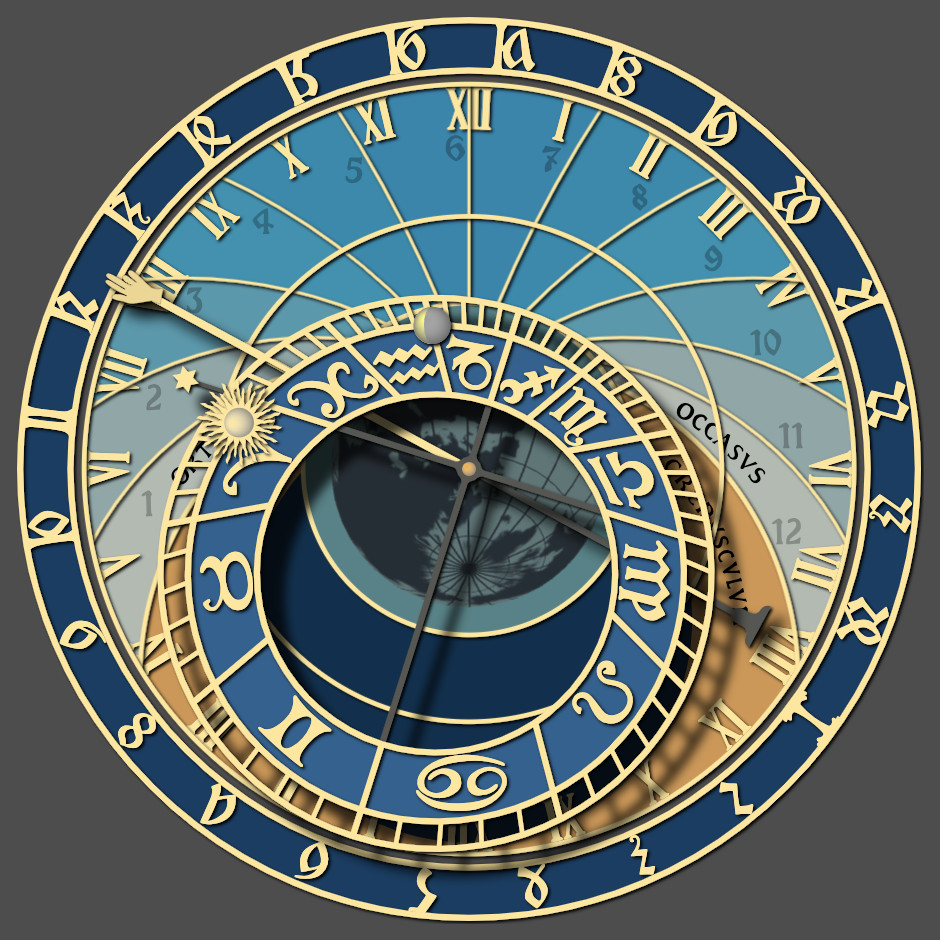
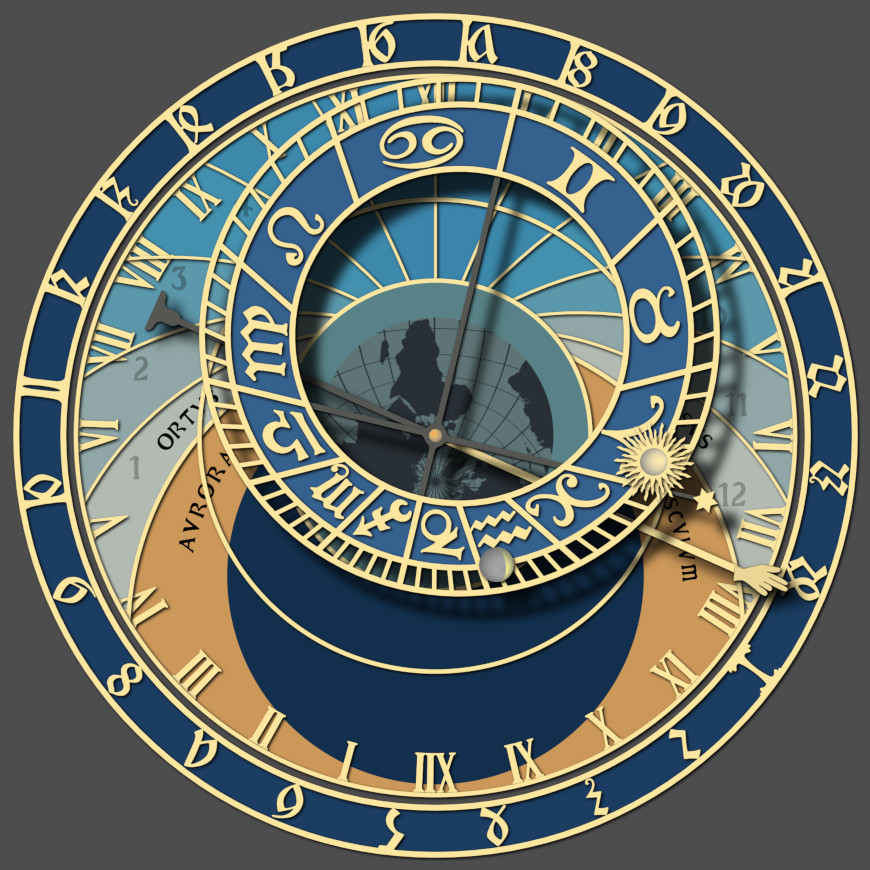
Convert central map to use stereographic projection.

diff --git a/src/assets/about.html b/src/assets/about.html
@@ -27,7 +27,7 @@
   }
 
   #clock {
-    left: calc(50% - 235px);
+    left: calc(50% - 217px);
     position: relative;
   }
 
@@ -49,28 +49,22 @@
 <body>
   <div class="page">
     <h1>Prague Astronomical Clock Simulator</h1>
-    <img id="clock" src="clock.jpg" width="470" height="470" alt="clock face">
+    <img id="clock" src="clock.jpg" width="435" height="435" alt="clock face">
     <h2>Graphic design</h2>
     <p>The original SVG clock graphics and font used here were originally developed by Jan Tošovský, as found on
       this <a href="https://drifted.in/horologium-app/" target="_blank">web site</a>.</p>
     <p>The color scheme here has been altered, the graphics have been modified to cover a full range of latitudes,
       and the graphics can now be updated quickly within a web browser, rather than relying on server-based updates.
-      A central map, similar to the one featured in the original clock, has been added.</p>
+      A central world map, similar to the one featured in the original clock, has been added.</p>
 
     <h2>Differences between the simulator and the original Prague clock</h2>
     <ul>
       <li>The positioning of the simulator’s clock hands, hour dial, sun, moon, and ecliptic wheel are done using
         modern astronomical calculations, rather than simulating the internal gearing of the physical clock.</li>
-      <li>The original clock shows a map of the world in the center of the clock face, with the south pole toward the
-        top, centered on Prague. The map projection (as best as I can tell) is a
+      <li>The original clock shows a map of the world in the center of the clock face, done using a
         <a href="https://en.wikipedia.org/wiki/Stereographic_projection" target="_blank">stereographic projection</a>,
-        which corresponds to the type of projection used in the astrolabe-like design of the entire clock face.<br><br>
-
-        Since this simulation can be set to any location on Earth, not only Prague, the globe image needs to turn and
-        rotate rather than being an unchanging painting. The easiest, fastest-rendering way to do this was to use a
-        camera-like perspective, rendering the globe as the Earth would be seen at a distance from space. The result
-        is a map which is somewhat different than the original map, even when the simulator’s location is set to
-        Prague.</li>
+        with the south pole toward the top, centered on Prague. Since this simulation can be set to any location on
+        Earth, not only Prague, the map will rotate in order to center on the currently set latitude and longitude.</li>
       <li>The simulator can operate within the Arctic and Antarctic circles. This lead to the possibility of all-day
         darkness and all-day light. A new region of the clock face, marked “SOL NOCTIS” (Latin for <em>evening sun</em>)
         will appear at these extreme latitudes. The lines of unequal hours can become very narrow, and may be dropped

diff --git a/src/globe/globe.ts b/src/globe/globe.ts
@@ -1,6 +1,6 @@
 import {
-  BufferGeometry, CanvasTexture, CylinderGeometry, Mesh, MeshBasicMaterial, PerspectiveCamera, Scene, SphereGeometry,
-  WebGLRenderer
+  BufferGeometry, CanvasTexture, CylinderGeometry, DoubleSide, Mesh, MeshBasicMaterial, PerspectiveCamera, Scene,
+  SphereGeometry, WebGLRenderer
 } from 'three';
 import { isChromeOS, isSafari, isString } from '@tubular/util';
 import { cos, floor, PI, sin, to_radian } from '@tubular/math';
@@ -10,10 +10,10 @@ const MAP_HEIGHT = 500;
 const MAP_WIDTH = 1000;
 const DEFAULT_GLOBE_PIXEL_SIZE = 500;
 const GLOBE_RADIUS = 5;
-const FIELD_OF_VIEW = 19.3;
-const VIEW_DISTANCE = 30;
+const FIELD_OF_VIEW = 91;
+const VIEW_DISTANCE = 4.975;
 const LINE_THICKNESS = 0.03;
-const HAG = 0.01; // Sleight distance above globe that longitude/latitude lines are drawn.
+const HAG = 0.02; // Sleight distance above globe that longitude/latitude lines are drawn.
 
 const GRID_COLOR = '#262F36';
 
@@ -89,14 +89,15 @@ export class Globe {
       this.scene = new Scene();
       const globe = new SphereGeometry(GLOBE_RADIUS, 50, 50);
       globe.rotateY(-PI / 2);
-      this.globeMesh = new Mesh(globe, new MeshBasicMaterial({ map: new CanvasTexture(Globe.mapCanvas) }));
+      globe.scale(-1, -1, -1);
+      this.globeMesh = new Mesh(globe, new MeshBasicMaterial({ map: new CanvasTexture(Globe.mapCanvas), side: DoubleSide }));
       this.scene.add(this.globeMesh);
 
       const lines: BufferGeometry[] = [];
 
       // Lines of longitude
       for (let n = 0; n < 24; ++n) {
-        const line = new CylinderGeometry(GLOBE_RADIUS + HAG, GLOBE_RADIUS + HAG, LINE_THICKNESS, 50, 1, true);
+        const line = new CylinderGeometry(GLOBE_RADIUS - HAG, GLOBE_RADIUS - HAG, LINE_THICKNESS, 50, 1, true);
         line.translate(0, -LINE_THICKNESS / 2, 0);
         line.rotateX(PI / 2);
         line.rotateY(n * PI / 12);
@@ -110,13 +111,13 @@ export class Globe {
         const y = GLOBE_RADIUS * sin(lat);
         const r1 = r - LINE_THICKNESS * sin(lat) / 2;
         const r2 = r + LINE_THICKNESS * sin(lat) / 2;
-        const line = new CylinderGeometry(r1 + HAG, r2 + HAG, cos(lat) * LINE_THICKNESS, 50, 8, true);
+        const line = new CylinderGeometry(r1 - HAG, r2 - HAG, cos(lat) * LINE_THICKNESS, 50, 8, true);
         line.translate(0, -cos(lat) * LINE_THICKNESS / 2 + y, 0);
         lines.push(line);
       }
 
       this.globeMesh.add(new Mesh(mergeBufferGeometries(lines),
-        new MeshBasicMaterial({ color: GRID_COLOR })));
+        new MeshBasicMaterial({ color: GRID_COLOR, side: DoubleSide })));
 
       this.camera.position.z = VIEW_DISTANCE;
       this.renderer = new WebGLRenderer({ alpha: true, antialias: true });

diff --git a/src/app/app.component.html b/src/app/app.component.html
@@ -131,6 +131,11 @@
         <circle cx="0" cy="0" r="250"/>
       </g>
     </mask>
+    <mask id="mapArea">
+      <g class="maskWhite">
+        <circle cx="0" cy="0" r="82"/>
+      </g>
+    </mask>
     <mask id="dayArea">
       <g class="maskWhite">
         <path [attr.d]="dayAreaMask"/>
@@ -272,6 +277,8 @@
         <circle cx="0" cy="0" r="107.7" class="baseCircle innerCircle"/>
         <circle cx="0" cy="0" r="164.1" class="baseCircle"/>
         <circle cx="0" cy="0" r="250" class="baseCircle"/>
+      </g>
+      <g id="worldMap" mask="url(#mapArea)" transform="scale(-1, -1)">
         <foreignObject x="-90" y="-90" width="180" height="180">
           <div id="globe-host"></div>
         </foreignObject>
